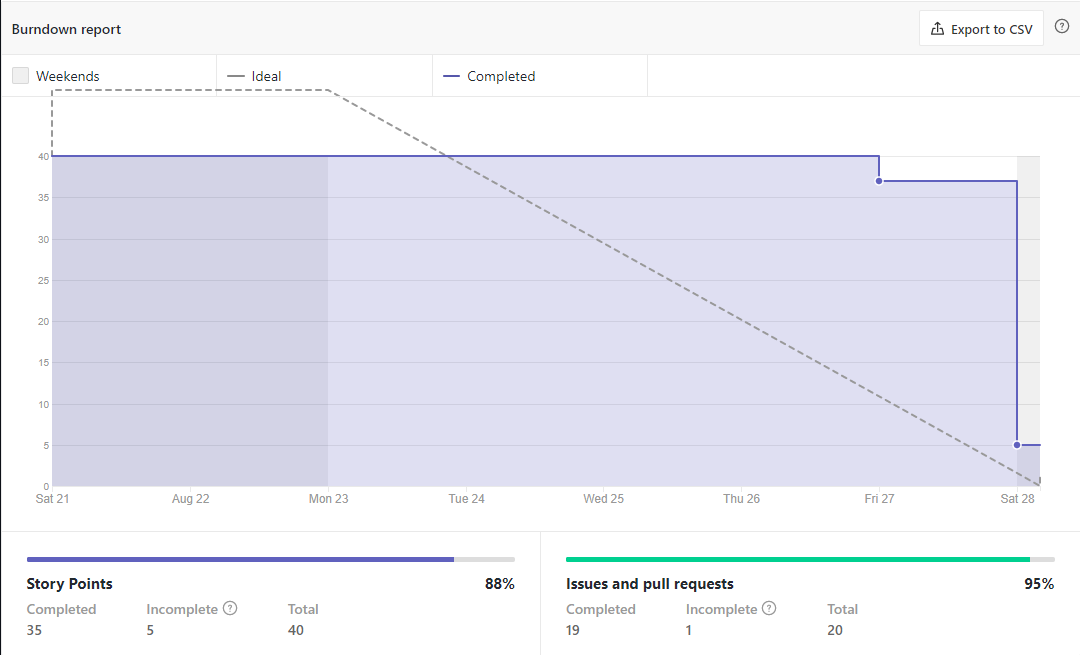
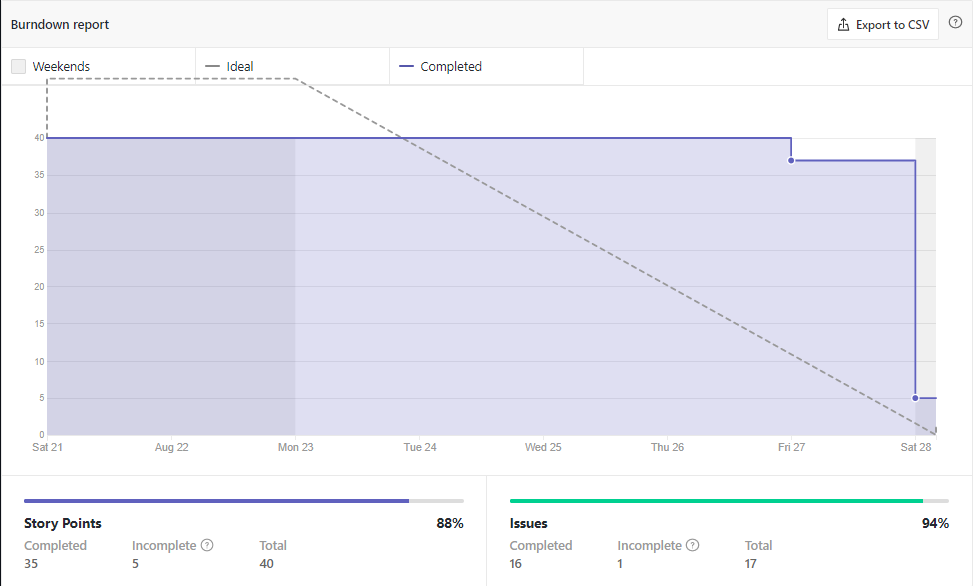
doc(#125) Corrigindo gráfico de burndown

diff --git a/docs/reunioes/sprints/review-sprint3.md b/docs/reunioes/sprints/review-sprint3.md
@@ -87,7 +87,7 @@
 **Responsáveis: Eliseu Kadesh e Edson Araújo**<br>
  **Pontuação: 5**<br>
  **Status: Dívida.**<br>
- 
+
 ### **Issue:** [#117 Revisão de documentos - Design Sprint](https://github.com/UnBArqDsw2021-1/2021.1_G6_Curumim/issues/117)<br>
 **Responsáveis: Nilo Mendonça e Bruno Félix**<br>
  **Pontuação: 2**<br>
@@ -128,3 +128,4 @@
 |  1.1   | 29/08/2021 | Adicionando retrospectiva | Enzo Gabriel |
 |  1.2   | 29/08/2021 | Adicionando gráficos de Burndown e Velocity | Enzo Gabriel |
 |  1.3   | 31/08/2021 | Adicionando issue aos resultados | Enzo Gabriel |
+|  1.4   | 31/08/2021 | Corrigindo gráfico de Burndown | Enzo Gabriel |
